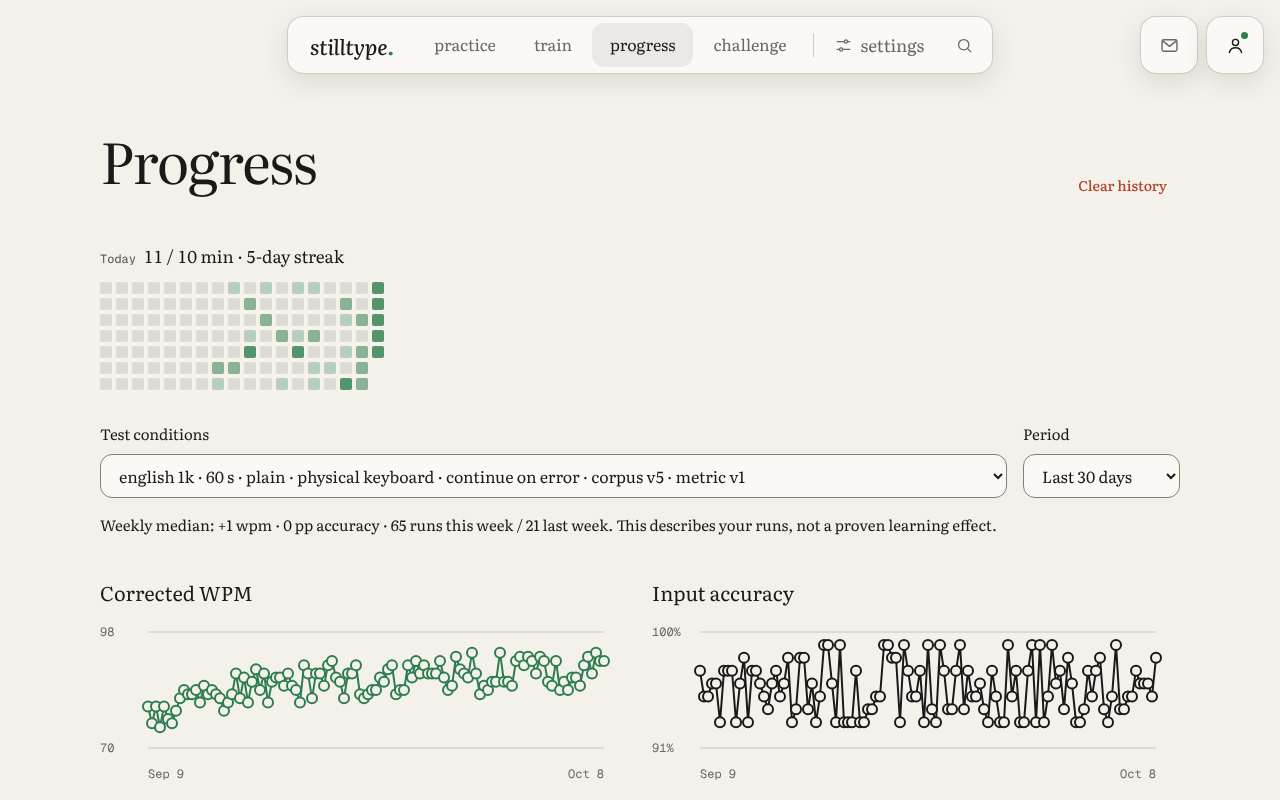
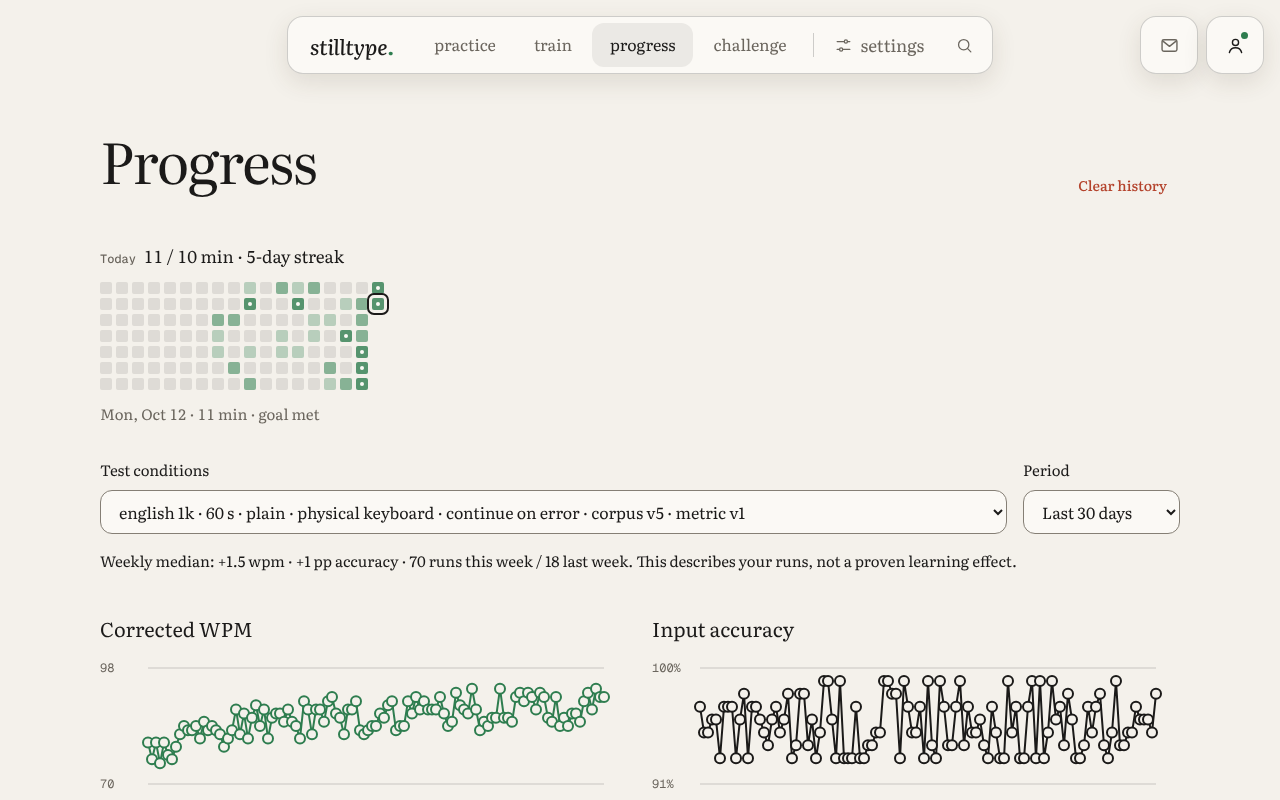
Caption the focused calendar day and mark goal-met days
A visual-only caption under the calendar repeats the focused or hovered day's label,
and goal-met days carry an accent-ink centre dot, so neither rests on colour alone.
The spec covers the caption, the cue and a 320px fit; screenshots refreshed.

Claude-Session: https://claude.ai/code/session_01SaBNo9RHRaTR8cCUjK1iLD

diff --git a/e2e/daily-goal-streak.spec.js b/e2e/daily-goal-streak.spec.js
@@ -16,15 +16,32 @@ test('daily goal line and practice calendar render on Progress', async ({ page }
   expect(await days.count()).toBeGreaterThanOrEqual(17 * 7 + 1);
   const today = days.last();
   await expect(today).toHaveAttribute('data-level', '1');
-  await expect(today).toHaveAttribute('title', /^[A-Z][a-z]{2} \d{1,2}: (<1|\d+) min$/);
+  // Under the 5-minute goal: no goal-met mark.
+  await expect(today).not.toHaveAttribute('data-goal', 'met');
+  // The caption is visual only and stays empty until a day is focused or hovered (the goal line covers today).
+  const caption = page.locator('#goal-caption');
+  await expect(caption).toHaveAttribute('aria-hidden', 'true');
+  await expect(caption).toHaveText('');
   // One tab stop; arrows move a day (up/down) or a week (left/right), and each day says what it holds.
   await expect(page.locator('#goal-calendar [tabindex="0"]')).toHaveCount(1);
   await expect(today).toHaveAttribute('tabindex', '0');
   await today.focus();
+  await expect(caption).toHaveText(/^[A-Z][a-z]{2}, [A-Z][a-z]{2} \d{1,2} · (<1|\d+) min$/);
   await page.keyboard.press('ArrowLeft');
   const weekAgo = days.nth((await days.count()) - 8);
   await expect(weekAgo).toBeFocused();
   await expect(weekAgo).toHaveAttribute('aria-label', /^[A-Z][a-z]+day, [A-Z][a-z]+ \d{1,2}: 0 min$/);
+  // The caption follows focus and uses the label's words, shortened.
+  const [weekday, month, date] = (await weekAgo.getAttribute('aria-label')).match(/^([A-Z][a-z]{2})[a-z]*, ([A-Z][a-z]{2})[a-z]* (\d{1,2}):/).slice(1);
+  await expect(caption).toHaveText(`${weekday}, ${month} ${date} · 0 min`);
+  // Hover shows the hovered day; leaving the calendar returns to the focused one, and blurring clears it.
+  await days.nth(3).hover();
+  await expect(caption).toHaveText(/^Wed, [A-Z][a-z]{2} \d{1,2} · 0 min$/);
+  await page.mouse.move(1200, 700);
+  await expect(caption).toHaveText(`${weekday}, ${month} ${date} · 0 min`);
+  await weekAgo.evaluate((cell) => cell.blur());
+  await expect(caption).toHaveText('');
+  await weekAgo.focus();
   // Up and down stay inside the drawn week column, Sunday at the top and Saturday at the bottom.
   await page.keyboard.press('Home');
   await expect(days.first()).toBeFocused();
@@ -86,6 +103,36 @@ test('Progress screenshots with ten weeks of seeded history', async ({ page, sup
   await openView(page, 'Progress');
   await expect(page.locator('#goal-line')).toHaveText(/^Today \d+ \/ 10 min · 5-day streak$/);
 
+  // Goal-met days carry a mark beyond colour: the attribute, the label's words and an accent-ink centre dot.
+  const days = page.locator('#goal-calendar .goal-day');
+  const today = days.last();
+  await expect(today).toHaveAttribute('data-goal', 'met');
+  await expect(today).toHaveAttribute('aria-label', /, goal met$/);
+  await expect(page.locator('#goal-calendar .goal-day[data-goal="met"]:not([data-level="3"]):not([data-level="4"])')).toHaveCount(0);
+  await expect(page.locator('#goal-calendar .goal-day[data-level="3"]:not([data-goal="met"]), #goal-calendar .goal-day[data-level="4"]:not([data-goal="met"])')).toHaveCount(0);
+  const dot = (cell) => cell.evaluate((node) => {
+    const probe = document.body.appendChild(document.createElement('i'));
+    probe.style.color = 'var(--accent-ink)';
+    const ink = getComputedStyle(probe).color;
+    probe.remove();
+    const after = getComputedStyle(node, '::after');
+    return { content: after.content, width: after.width, background: after.backgroundColor, ink };
+  });
+  for (const theme of ['dark', 'light']) {
+    await page.evaluate((t) => { document.documentElement.dataset.theme = t; }, theme);
+    const met = await dot(today);
+    expect(met.content, theme).toBe('""');
+    expect(met.width, theme).toBe('4px');
+    expect(met.background, theme).toBe(met.ink);
+  }
+  expect((await dot(days.first())).content).toBe('none');
+
+  // Focus today from the keyboard (End) so the screenshots show the caption and the focus ring.
+  await today.focus();
+  await page.keyboard.press('End');
+  await expect(today).toBeFocused();
+  await expect(page.locator('#goal-caption')).toHaveText(/^[A-Z][a-z]{2}, [A-Z][a-z]{2} \d{1,2} · \d+ min · goal met$/);
+
   for (const theme of ['dark', 'light']) {
     await page.evaluate((t) => { document.documentElement.dataset.theme = t; }, theme);
     await page.mouse.move(640, 300);
@@ -94,6 +141,36 @@ test('Progress screenshots with ten weeks of seeded history', async ({ page, sup
     const name = `progress-${theme}.png`;
     await page.screenshot({ path: process.env.SCREENSHOTS ? `docs/screenshots/daily-goal-streak/${name}` : testInfo.outputPath(name) });
   }
+});
+
+test('the calendar and its longest caption fit a 320px screen', async ({ page, supabase }, testInfo) => {
+  await page.setViewportSize({ width: 1280, height: 800 });
+  const user = supabase.addUser('narrow@stilltype.test');
+  const runs = seededHistory();
+  supabase.profiles.set(user.id, { data: { version: 2, preferences: { dailyGoal: 10 }, attempts: [], runs, loops: [],
+    seenTextIds: runs.map((r) => r.textId), bests: {}, updatedAt: runs.at(-1).at } });
+  await openApp(page);
+  await signInWithEmail(page, user.email);
+  await openSettings(page);
+  await page.locator('#daily-goal').selectOption('10');
+  await page.keyboard.press('Escape');
+  await page.setViewportSize({ width: 320, height: 640 });
+  await openView(page, 'Progress');
+  const days = page.locator('#goal-calendar .goal-day');
+  const longest = await days.evaluateAll((cells) => cells.reduce((best, cell, i) => (cell.dataset.caption.length > cells[best].dataset.caption.length ? i : best), 0));
+  await days.nth(longest).focus();
+  await expect(page.locator('#goal-caption')).toHaveText(/ · goal met$/);
+  const width = await page.evaluate(() => document.documentElement.clientWidth);
+  expect(await page.evaluate(() => document.documentElement.scrollWidth - document.documentElement.clientWidth)).toBeLessThanOrEqual(0);
+  for (const selector of ['#goal-calendar', '#goal-caption', '#goal-line']) {
+    const box = await page.locator(selector).boundingBox();
+    expect(box.x, selector).toBeGreaterThanOrEqual(0);
+    expect(box.x + box.width, selector).toBeLessThanOrEqual(width);
+  }
+  // The caption stays on its one reserved line.
+  const { height, line } = await page.locator('#goal-caption').evaluate((node) => ({ height: node.getBoundingClientRect().height, line: parseFloat(getComputedStyle(node).lineHeight) }));
+  expect(height).toBeLessThanOrEqual(line + 1);
+  await page.locator('#practice-goal').screenshot({ path: testInfo.outputPath('progress-goal-320.png') });
 });
 
 test('drills alone count toward daily practice and the empty trend copy agrees', async ({ page, supabase }) => {

diff --git a/src/app.js b/src/app.js
@@ -1264,7 +1264,11 @@ function renderTraining() {
 
 // Daily goal line and an 18-week practice calendar (Sunday-first columns), static by design.
 // The calendar is one tab stop: each day is a labelled cell, and the arrow keys move between them as drawn.
+// Goal-met days carry a dot as well as the green step, and the caption under the calendar repeats the
+// focused or hovered day's label for sighted users (it is aria-hidden; the cell's own label is announced).
 let goalDay = '';
+function captionGoalDay(cell) { $('goal-caption').textContent = cell?.dataset?.caption || ''; }
+const focusedGoalDay = () => ($('goal-calendar').contains(document.activeElement) ? document.activeElement : null);
 function renderGoal(date = new Date()) {
   goalDay = dayKey(date);
   const byDay = minutesByDay(profile.runs, profile.practiceDays);
@@ -1276,18 +1280,21 @@ function renderGoal(date = new Date()) {
   const cells = [];
   for (const day = new Date(start); day <= date; day.setDate(day.getDate() + 1)) {
     const minutes = byDay[dayKey(day)] || 0;
+    const met = goal > 0 && minutes >= goal;
     const cell = element('span', '', 'goal-day');
     cell.dataset.level = String(practiceLevel(minutes, goal));
+    if (met) cell.dataset.goal = 'met';
     cell.setAttribute('role', 'img');
     cell.tabIndex = -1;
-    cell.title = `${day.toLocaleDateString('en-US', { month: 'short', day: 'numeric' })}: ${goalMinutes(minutes)} min`;
-    cell.setAttribute('aria-label', `${day.toLocaleDateString('en-US', { weekday: 'long', month: 'long', day: 'numeric' })}: ${goalMinutes(minutes)} min${goal && minutes >= goal ? ', goal met' : ''}`);
+    cell.setAttribute('aria-label', `${day.toLocaleDateString('en-US', { weekday: 'long', month: 'long', day: 'numeric' })}: ${goalMinutes(minutes)} min${met ? ', goal met' : ''}`);
+    cell.dataset.caption = [day.toLocaleDateString('en-US', { weekday: 'short', month: 'short', day: 'numeric' }), `${goalMinutes(minutes)} min`, met && 'goal met'].filter(Boolean).join(' · ');
     cells.push(cell);
   }
   cells.at(-1).tabIndex = 0;
   const practised = cells.filter((cell) => cell.dataset.level !== '0').length;
-  const hadFocus = $('goal-calendar').contains(document.activeElement);
+  const hadFocus = Boolean(focusedGoalDay());
   $('goal-calendar').setAttribute('aria-label', `Practice minutes per day, last 18 weeks: ${practised} days with practice. Arrow keys move between days.`);
+  captionGoalDay(null);
   $('goal-calendar').replaceChildren(...cells);
   if (hadFocus) cells.at(-1).focus();
 }
@@ -1939,6 +1946,10 @@ function bindEvents() {
   $('word-list').addEventListener('change', (event) => setWordList(event.target.value));
   $('daily-goal').addEventListener('change', (event) => { prefs.dailyGoal = Number(event.target.value); saveProfile(); renderGoal(); });
   $('goal-calendar').addEventListener('keydown', moveGoalFocus);
+  $('goal-calendar').addEventListener('focusin', (event) => captionGoalDay(event.target));
+  $('goal-calendar').addEventListener('focusout', (event) => { if (!$('goal-calendar').contains(event.relatedTarget)) captionGoalDay(null); });
+  $('goal-calendar').addEventListener('pointerover', (event) => captionGoalDay(event.target.closest('.goal-day') || focusedGoalDay()));
+  $('goal-calendar').addEventListener('pointerleave', () => captionGoalDay(focusedGoalDay()));
   $('font-size').addEventListener('change', (event) => { prefs.fontSize = event.target.value; applyPreferences(); saveProfile(); });
   $('live-toggle').addEventListener('change', (event) => { prefs.liveMetrics = event.target.checked; applyPreferences(); saveProfile(); });
   $('keyboard-toggle').addEventListener('change', (event) => { prefs.keyboard = event.target.checked; applyPreferences(); saveProfile(); });

diff --git a/src/styles.css b/src/styles.css
@@ -1510,11 +1510,15 @@ body[data-focus-mode="true"][data-view="practice"] .exit-focus { display: inline
   display: grid; grid-template-rows: repeat(7, var(--space-3)); grid-auto-flow: column; grid-auto-columns: var(--space-3);
   gap: var(--space-1); justify-content: start;
 }
-.goal-day { border-radius: var(--radius-cell); background: var(--hairline); }
+.goal-day { display: grid; place-items: center; border-radius: var(--radius-cell); background: var(--hairline); }
 .goal-day[data-level="1"] { background: var(--practice-level-1); }
 .goal-day[data-level="2"] { background: var(--practice-level-2); }
 .goal-day[data-level="3"] { background: var(--practice-level-3); }
 .goal-day[data-level="4"] { background: var(--accent); }
+/* Goal met: a centre dot in accent-ink (≥3:1 on both green steps in both themes), so it never rests on colour alone. */
+.goal-day[data-goal="met"]::after { content: ""; width: var(--space-1); height: var(--space-1); border-radius: var(--radius-full); background: var(--accent-ink); }
+/* The focused or hovered day, in words. One line is reserved so the page below never shifts. */
+.goal-caption { min-height: 1lh; margin: 0; color: var(--muted); font-size: var(--text-small); font-variant-numeric: tabular-nums; }
 .filter-field { min-width: 0; display: grid; gap: var(--space-2); font-size: var(--text-small); }
 .progress-filters .filter-field:first-child { flex: 1; }
 .filter-field select { width: 100%; max-width: 100%; text-overflow: ellipsis; }

diff --git a/index.html b/index.html
@@ -358,6 +358,7 @@
         <section id="practice-goal" class="practice-goal" aria-label="Daily practice" hidden>
           <p id="goal-line" class="goal-line"></p>
           <div id="goal-calendar" class="goal-calendar" role="group"></div>
+          <p id="goal-caption" class="goal-caption" aria-hidden="true"></p>
         </section>
 
         <div id="progress-empty" class="empty-state">

diff --git a/DESIGN.md b/DESIGN.md
@@ -212,7 +212,7 @@ Density is low and deliberate. The practice screen centres the passage with the 
 A warm, low-chroma neutral ramp with one green and one coral. The palette is defined twice, once for dark (`:root`, `[data-theme="dark"]`) and once for light (`[data-theme="light"]`), with identical token names. Frontmatter keys ending in `-light` are the light-theme values of the same token.
 
 ### Primary
-- **Afterimage Green** (accent): the only action and current-state colour. It fills the primary button, colours the caret, the timer, the progress line, the selected palette dot, the pressed on-screen key, improved comparison figures and the evidence counts on the recommendation. Focus rings on inputs use its soft tint (accent-soft). Text on a green fill uses accent-ink. The practice calendar on Progress steps it at 30%, 55% and 80% (practice-level-1 to 3) and then full accent; days without practice sit on the hairline.
+- **Afterimage Green** (accent): the only action and current-state colour. It fills the primary button, colours the caret, the timer, the progress line, the selected palette dot, the pressed on-screen key, improved comparison figures and the evidence counts on the recommendation. Focus rings on inputs use its soft tint (accent-soft). Text on a green fill uses accent-ink. The practice calendar on Progress steps it at 30%, 55% and 80% (practice-level-1 to 3) and then full accent; days without practice sit on the hairline, and days that met the goal also carry a small accent-ink centre dot so they never rest on colour alone.
 
 ### Secondary
 - **Ember Coral** (danger): mistyped letters, the blocked caret, regressions, destructive actions and field errors. It is always paired with a second cue (a tint or a word) and never used alone.
